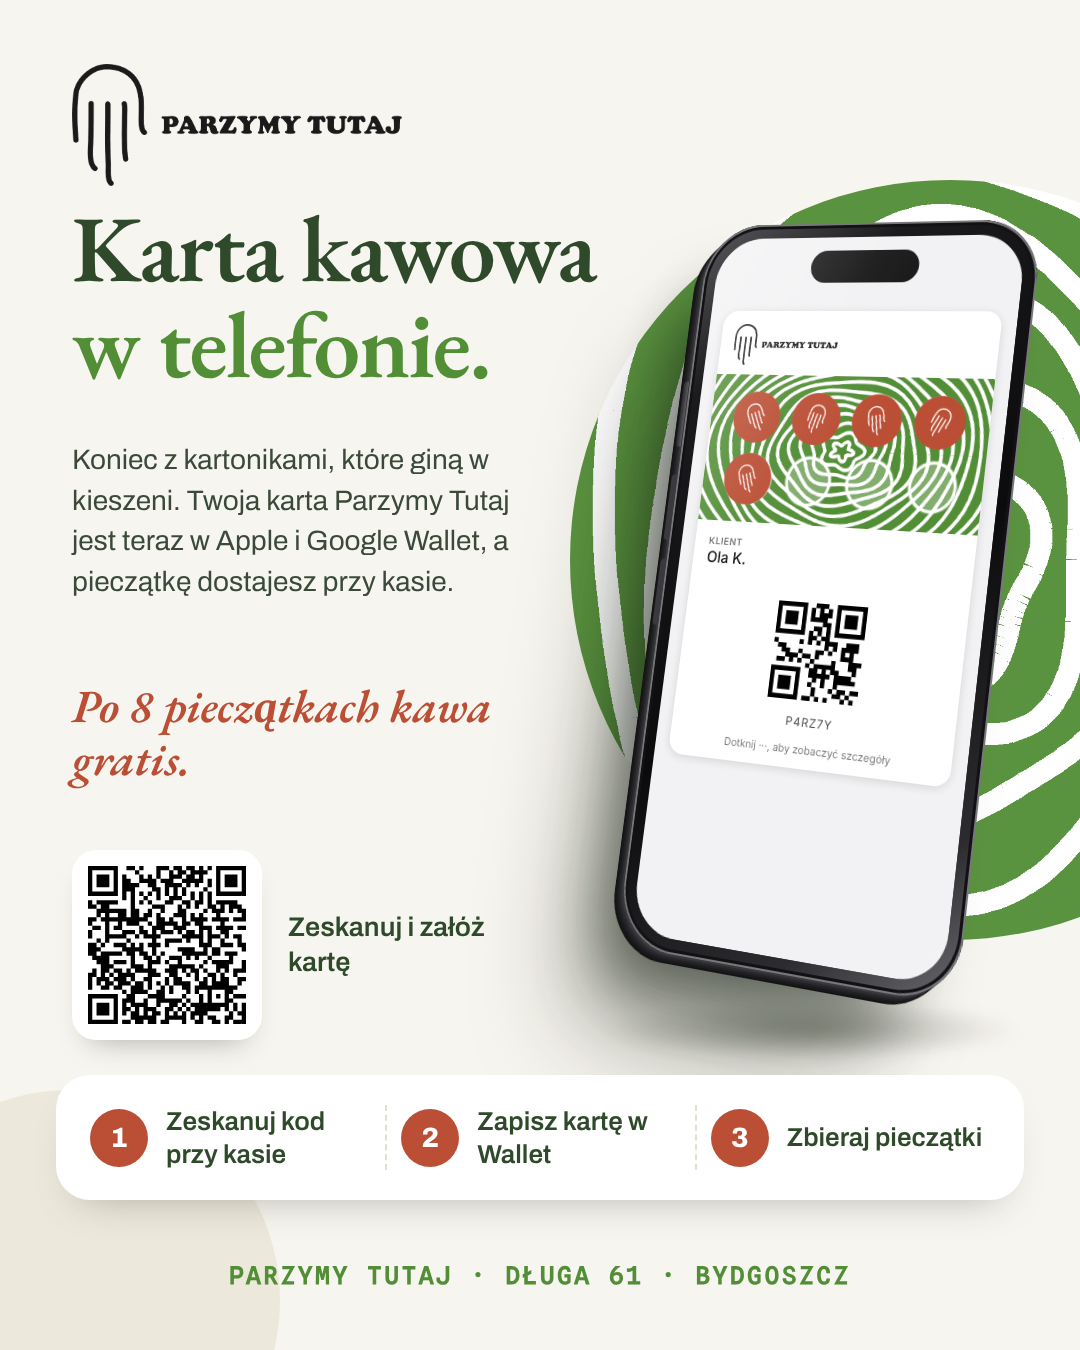
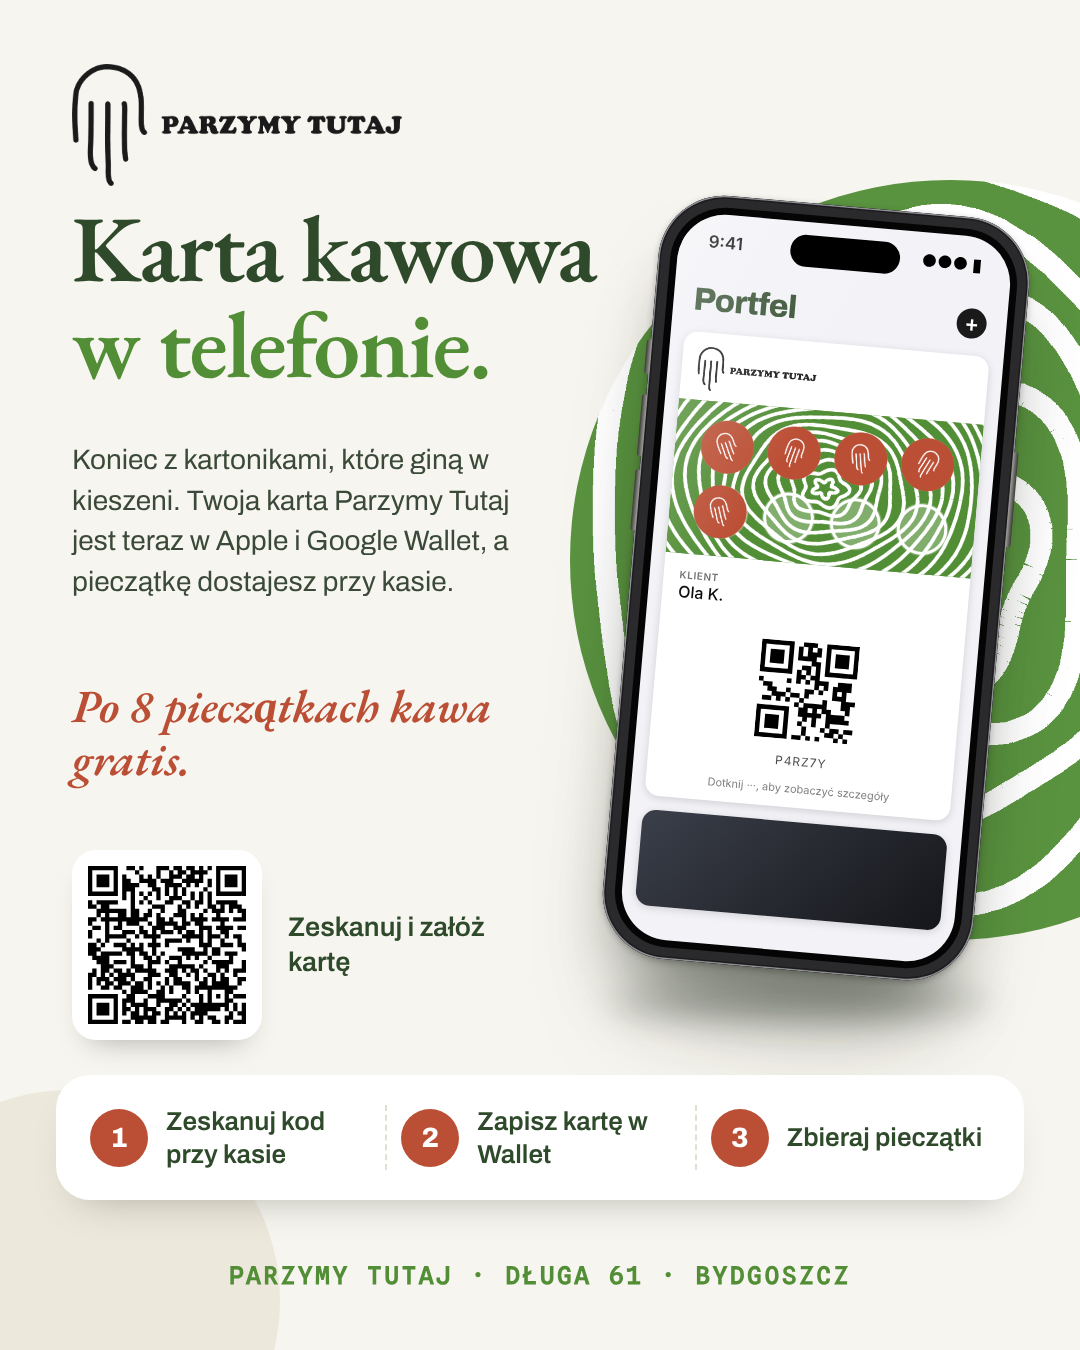
Parzymy Instagram post: cleaner Apple-style phone with the Wallet screen
Claude-Session: https://claude.ai/code/session_01P7jvwC9jL6ipCqqXJiCoo9

Changed region(s): [[0.4889, 0.1244, 0.9778, 0.8089]]

diff --git a/marketing/instagram/parzymy/post-karta.html b/marketing/instagram/parzymy/post-karta.html
@@ -17,18 +17,29 @@ h1{position:absolute;left:72px;top:200px;margin:0;font-family:"EB Garamond",Geor
 h1 em{font-style:normal;color:var(--green)}
 .lede{position:absolute;left:72px;top:440px;width:470px;margin:0;font-size:28px;line-height:1.45;color:#3B4A38}
 .prize{position:absolute;left:72px;top:680px;width:470px;margin:0;font-family:"EB Garamond",Georgia,serif;font-style:italic;font-weight:600;font-size:46px;line-height:1.15;color:var(--brick)}
-.phone{position:absolute;right:70px;top:210px;width:370px;height:760px;border-radius:64px;padding:15px;box-sizing:border-box;
-  background:linear-gradient(140deg,#5a5a5e 0%,#1b1b1d 18%,#0b0b0c 55%,#2c2c30 85%,#6a6a70 100%);
-  transform:perspective(1700px) rotateY(-24deg) rotateX(8deg) rotateZ(4deg);transform-style:preserve-3d;
-  box-shadow:inset 0 0 0 2px #77777c,inset 0 0 0 5px #121214,
-    -2px 2px 0 #3a3a3e,-4px 4px 0 #2c2c30,-6px 6px 0 #222225,-8px 8px 0 #1a1a1c,-10px 10px 0 #141416,
-    -40px 60px 70px -20px rgba(20,30,15,.55),-90px 120px 120px -40px rgba(20,30,15,.35)}
-.phone::before{content:"";position:absolute;left:-7px;top:170px;width:6px;height:70px;border-radius:4px 0 0 4px;background:linear-gradient(90deg,#2a2a2d,#5c5c61);box-shadow:0 100px 0 #3a3a3e,0 190px 0 #3a3a3e}
-.phone::after{content:"";position:absolute;inset:15px;border-radius:50px;pointer-events:none;background:linear-gradient(115deg,rgba(255,255,255,.28) 0%,rgba(255,255,255,.06) 28%,rgba(255,255,255,0) 42%,rgba(255,255,255,0) 70%,rgba(255,255,255,.08) 100%)}
-.ground{position:absolute;right:60px;top:1000px;width:420px;height:60px;border-radius:50%;background:radial-gradient(closest-side,rgba(30,40,25,.35),rgba(30,40,25,0));filter:blur(6px)}
-.screen{width:100%;height:100%;border-radius:50px;background:#F2F2F4;overflow:hidden;position:relative;padding:78px 16px 0;box-sizing:border-box}
-.notch{position:absolute;left:50%;top:14px;transform:translateX(-50%);width:120px;height:34px;border-radius:20px;background:#141414}
-.screen .pass{width:100%;max-width:none;border-radius:16px;box-shadow:0 2px 10px rgba(0,0,0,.12)}
+
+
+
+
+
+
+
+.phone{position:absolute;right:78px;top:205px;width:372px;height:766px;border-radius:66px;padding:12px;box-sizing:border-box;transform:rotate(5deg);
+  background:#2A2A2C;
+  box-shadow:0 0 0 1.5px #8E8E93 inset,0 0 0 3px #1C1C1E inset,0 2px 6px rgba(0,0,0,.25),0 50px 70px -30px rgba(25,35,20,.55),0 90px 120px -60px rgba(25,35,20,.35)}
+.phone .sb{position:absolute;width:5px;border-radius:3px;background:linear-gradient(90deg,#3a3936,#9c9a95)}
+.phone .b1{left:-4px;top:150px;height:34px}.phone .b2{left:-4px;top:205px;height:62px}.phone .b3{left:-4px;top:280px;height:62px}.phone .b4{right:-4px;top:230px;height:96px;background:linear-gradient(270deg,#3a3936,#9c9a95)}
+.bezel{width:100%;height:100%;border-radius:55px;background:#050505;padding:7px;box-sizing:border-box}
+.scr{position:relative;width:100%;height:100%;border-radius:48px;background:#F2F2F7;overflow:hidden}
+.scr::after{content:"";position:absolute;inset:0;pointer-events:none;background:linear-gradient(118deg,rgba(255,255,255,.35) 0%,rgba(255,255,255,0) 35%)}
+.isl{position:absolute;top:13px;left:50%;width:110px;height:32px;margin-left:-55px;border-radius:18px;background:#000;z-index:3}
+.bar{display:flex;justify-content:space-between;padding:20px 30px 0;font:600 17px/1 -apple-system,Archivo,sans-serif;color:#000}
+.wal{padding:34px 14px 0}
+.wal b{display:flex;justify-content:space-between;align-items:center;font:800 32px/1 Archivo,sans-serif;letter-spacing:-.02em;margin:0 6px 16px}
+.wal b i{width:30px;height:30px;border-radius:50%;background:#1A1A1A;color:#fff;font:700 22px/30px Archivo;text-align:center;font-style:normal}
+.wal .pass{max-width:none;width:100%;border-radius:14px;box-shadow:0 2px 8px rgba(0,0,0,.14)}
+.bank{margin-top:14px;height:96px;border-radius:14px;background:linear-gradient(135deg,#3B3F4A,#15161A);box-shadow:0 2px 8px rgba(0,0,0,.14)}
+.shade{position:absolute;right:90px;top:985px;width:380px;height:34px;border-radius:50%;background:rgba(25,35,20,.28);filter:blur(16px)}
 .steps{position:absolute;left:56px;right:56px;bottom:150px;display:grid;grid-template-columns:repeat(3,1fr);gap:0;background:#fff;border-radius:34px;padding:30px 20px;box-shadow:0 20px 40px -24px rgba(30,40,25,.35)}
 .step{display:flex;align-items:center;gap:18px;padding:0 14px;font-size:26px;line-height:1.25;font-weight:600}
 .step + .step{border-left:2px dashed #E3DED2}
@@ -63,7 +74,7 @@ window.WAIT_READY = true;
     <p class="lede">Koniec z kartonikami, które giną w kieszeni. Twoja karta Parzymy Tutaj jest teraz w Apple i Google Wallet, a pieczątkę dostajesz przy kasie.</p>
     <p class="prize">Po 8 pieczątkach kawa gratis.</p>
     <div class="join"><div class="qr">${UI.qrSvg(UI.publicJoinUrl('parzymy-pokaz') + '&lang=pl')}</div><p>Zeskanuj i załóż kartę</p></div>
-    <div class="ground"></div><div class="phone"><div class="screen"><div class="notch"></div>${UI.renderPass(card, who, { platform: 'apple' })}</div></div>
+    <div class="shade"></div><div class="phone"><i class="sb b1"></i><i class="sb b2"></i><i class="sb b3"></i><i class="sb b4"></i><div class="bezel"><div class="scr"><div class="isl"></div><div class="bar"><span>9:41</span><span>●●● ▮</span></div><div class="wal"><b>Portfel <i>+</i></b>${UI.renderPass(card, who, { platform: 'apple' })}<div class="bank"></div></div></div></div></div>
     <div class="steps">
       <div class="step"><b>1</b>Zeskanuj kod przy kasie</div>
       <div class="step"><b>2</b>Zapisz kartę w Wallet</div>
